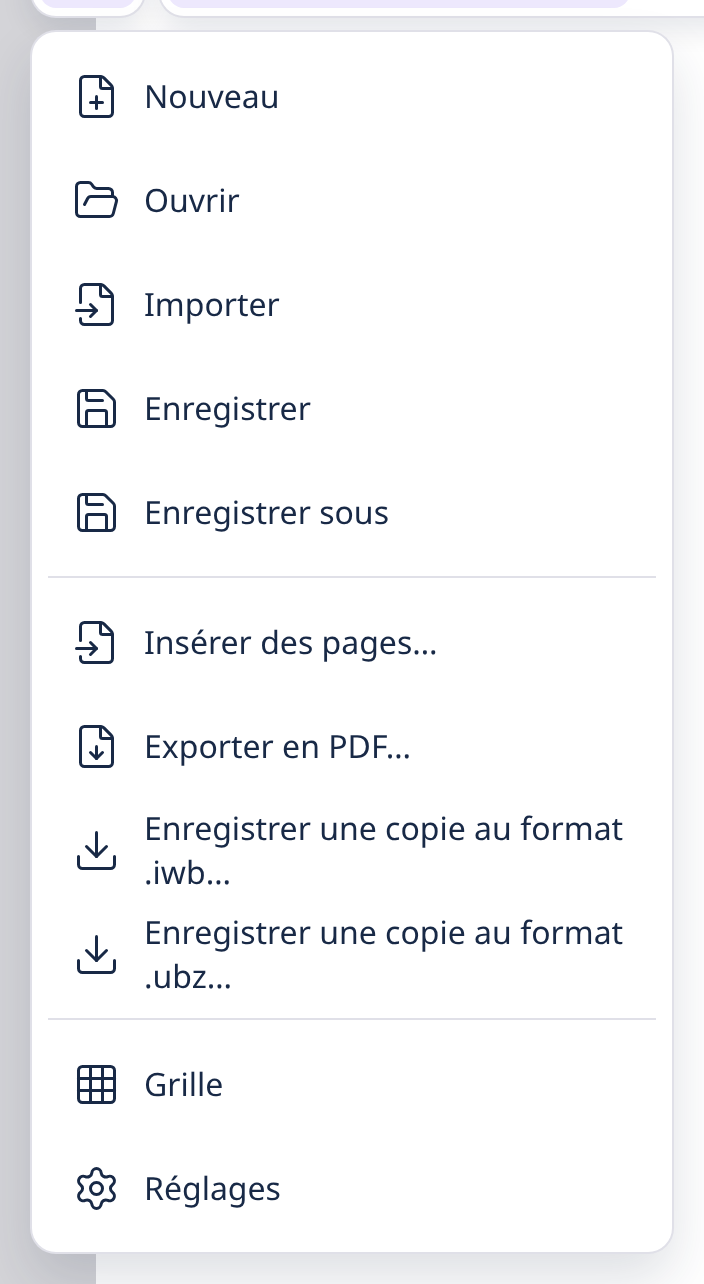
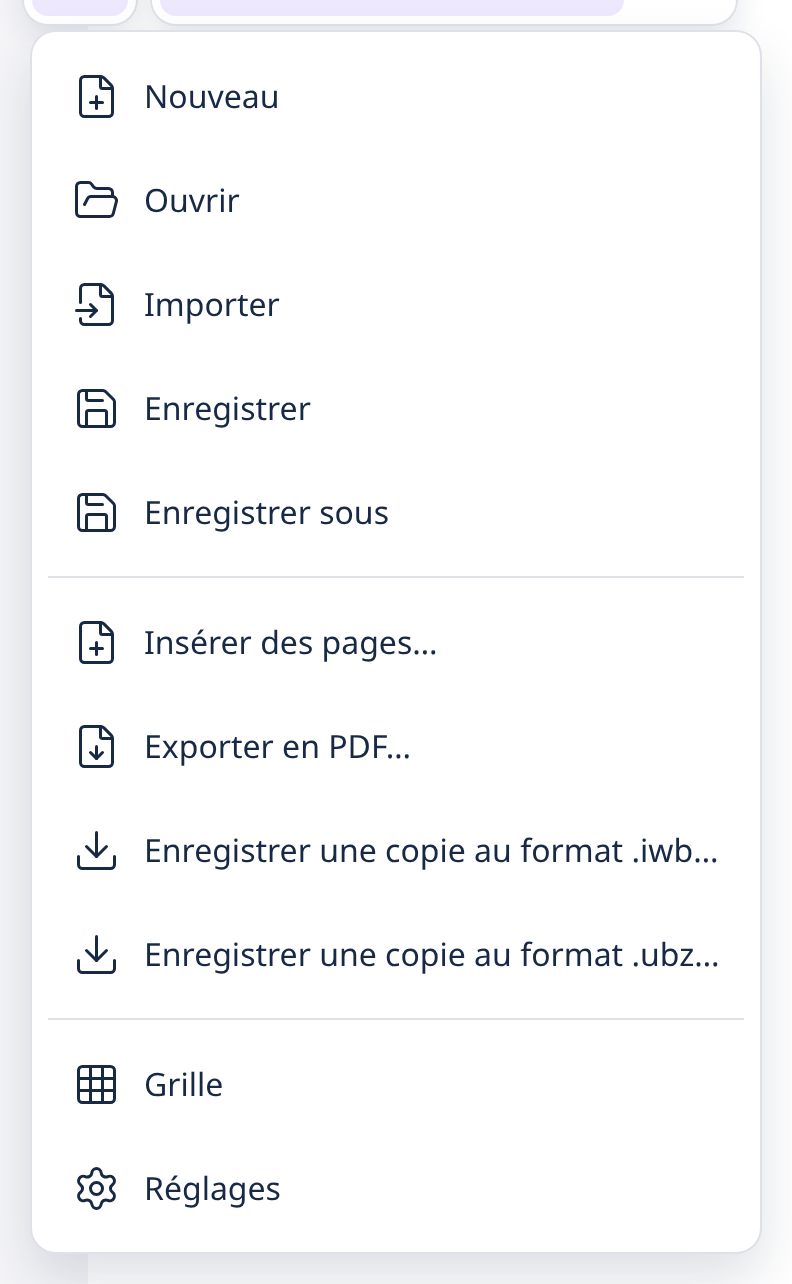
docs(design-l2): final captures, comparison and state

diff --git a/docs/sessions/design-l2-etat.md b/docs/sessions/design-l2-etat.md
@@ -1,10 +1,10 @@
 # État — design-l2
 
 Statut : en cours
-Gabarit : chantier (provisoire)
+Gabarit : chantier (8 tâches)
 Objectif : Remplacer la grille à bandes de RoomBoard par des îlots blancs flottants au-dessus de la scène (barre d'outils au centre, déplaçable et repliable ; onglets, menu, pages, annuler et zoom, bibliothèque et profil), pour que la scène occupe toute la hauteur de la fenêtre, comme la maquette 01.
-Avancement : —
-Étage : 1 — depuis 2026-11-25 18:05
+Avancement : 14/14 tâches terminées (8 du plan, 2 correctifs d'essais, 4 correctifs de fin)
+Étage : 4 — depuis 2026-11-25 20:00
 Lot : —
 Tâche : —
 Questions à Jérôme : —
@@ -24,16 +24,34 @@ Référence L3 sur 8113f4c (même arbre fusionné) : cargo 1356 (8 ignorés) · 
 Wasm avant : principal 1 375 581 o (plafond 1 572 864) · formats 2 794 511 o (plafond 3 145 728)
 
 ## Compteurs
-contre-relecture cadrage 1/2 (1 bloquant petits écrans, 5 majeurs : renvoyés au cadreur) · relecture plan 0/3 · vagues sans progrès 0/2 · correctifs de fin 0/2
+contre-relecture cadrage 1/2 (1 bloquant petits écrans, 5 majeurs : renvoyés au cadreur) · relecture plan 0/3 (sautée pour le temps : le planificateur a pris 43 min ; la double relecture de fin couvre) · vagues sans progrès 0/2 · correctifs de fin 2/2 (+ une retouche d'une ligne de l'orchestrateur : place de trois numéros, CL5b-8)
 
 ## Tâches
-(étage 2)
+| id | dépend | fichiers (abrégés) | état | commit vert | preuve rejouée |
+|----|--------|--------------------|------|-------------|----------------|
+| T1 | — | toolbar, toolbar-profiles, ProfileEditor + tests | terminée | 51b1029 | V1 : tsc 0, suite web 3529 |
+| T2 | — | island-place (neuf), device-settings | terminée | 477ae06 | idem |
+| T3 | — | icons, MenuBar (neuf), notices | terminée | 4f4af13 | idem ; controle-icones 9 cas |
+| T4 | T1 | TabsBar, PagesBar, App.test | terminée | d6d4f12 | V2 : tsc 0, suite web 3558 |
+| T5 | T2,T3 | Island (neuf) — concepteur-critique | terminée | e78ebe1 | idem ; revue immédiate reportée à la double relecture (temps) |
+| T6 | T1-T5 | App, layout, Toolbar, rb.css — concepteur-critique | terminée | a866978 | V3 : tsc 0, suite web 3583 |
+| T7 | T6 | essais existants, clickItem, s5b | terminée | f6bb825 | S5b : OK ; 8 essais rouges renvoyés en T9/T10 |
+| T8 | T6 | essai design-l2, verifier.sh, captures, comparaison | terminée | 961f4a5 | design L2 : ÉCHEC sur bbbc597, OK sur L2 |
+| T9 | T8 | icônes au pixel entier (padToPixel), c1 | terminée | 266414a | design L1, C1, design L2 OK ; suite 3589 |
+| T10 | T8 | gestes des essais c2, c8, c10b, c13, c15, design-l4 | terminée | d37cc47 | 7 essais OK |
+| T11 | relectures | #etat recouvert, Show keyed, clés d'appareil | terminée | c8c061b | suite 3597, design L2, S5b OK |
+| T12 | relectures + impeccable | menu fixed, clavier, pages, eraser-part | terminée | 0151d82 | suite 3594, design L1/L2 OK |
+| T13 | verifier | Ctrl+O (non reproductible), fond #F5F5F8 | terminée | 167e4b4 | c3 OK 5/5 ; suite 3589 |
+| T14 | relecture du correctif 1 | mémo d'id, infobulle Menu, resize, %2E | terminée | 7b42738 | suite 3606 ; design L2, L3, C1 OK |
+| — | verifier | place de trois numéros (CL5b-8) | terminée | 05677d4 | C13 OK, design L2 OK |
 
 ## Terminé quand
 toutes les tâches terminées · double relecture sans bloquant · verifier.sh --e2e OK sans régression · #stage = hauteur de la fenêtre (mesuré) · s5b joué · netteté § 10 · recadrages comparés à la maquette 01 · PR fusionnée dans main
 
 ## Hypothèses à revoir
-—
+Voir le cadrage (H1 à H14, H10 au niveau 1 : position de l'îlot sur l'appareil, contre U12). Choix de l'orchestrateur :
+- RESERVED_BAR_IDS garde `tabs` (validation des profils inchangée) ; le test toolbar.test.ts:124 passe en inclusion.
+- Ordre DOM des barres du tableau suit les coins du calque (App.test.tsx:637,641).
 
 ## Hors périmètre
 - Icône de l'app (L5), thème sombre (Q7), police Inter (Q6).
@@ -42,4 +60,12 @@ toutes les tâches terminées · double relecture sans bloquant · verifier.sh -
 ouvertes : — · passées : —
 
 ## Pièges trouvés
-—
+- Une scène pleine fenêtre met sous les îlots les gestes des essais écrits en px de scène (coin haut-gauche jusqu'à y 72) : choisir des points hors de `islandBoxes`.
+- Icônes après un texte de largeur fractionnaire : x fractionnaire, donc flou ; `padToPixel` arrondit la boîte du texte vers le haut.
+- Un `createMemo` qui rend un tableau neuf relance `Show keyed` à chaque lecture : mémoriser la chaîne d'abord.
+
+## Restes
+- moyen : la page commence à 16 px du haut, sous les îlots du haut (`fitPage`, `engine/camera.ts`) ; la maquette la pose vers y 152.
+- faible : Ctrl+O sous charge après Ctrl+S (C3 rouge une fois, non reproduit 5/5 ; course `busy` supposée, déjà présente avant L2).
+- faible : restes d'OF61 non pris (focus après « Revenir à l'origine », poignée de tri 44 px) : hors du chemin de L2.
+- faible : revue immédiate de T5 (concepteur-critique) remplacée par la double relecture de fin ; relecture du plan sautée pour le temps.

diff --git a/docs/essais/design-l2-comparaison.md b/docs/essais/design-l2-comparaison.md
@@ -10,7 +10,7 @@ maquette : `design-l2-maquette-*.png` (recadrages de `docs/design/maquettes/01-t
 ## Mesures
 
 - `#stage` : S1 1280 × 900 : #stage mesure la fenêtre (x 0, y 0, 1280 × 900) ; S1 1920 × 1080 : #stage mesure la fenêtre (x 0, y 0, 1920 × 1080).
-- Îlots (S1) : `îlots 1920 × 1080 : menu 16,16 56×56 ; onglets 80,16 291.4375×56 ; outils 593,16 734×56 ; panneaux 1796,16 108×56 ; historique 16,1008 160×56 ; pages 735,1008 450.546875×56 ; prereglages 880,80 160×56`, positions entières, aucun chevauchement. Largeurs fractionnaires admises (pages : 450,546875 px) : seules les positions sont au pixel entier.
+- Îlots (S1, première passe, avant le calage des icônes de T9) : `îlots 1920 × 1080 : menu 16,16 56×56 ; onglets 80,16 291.4375×56 ; outils 593,16 734×56 ; panneaux 1796,16 108×56 ; historique 16,1008 160×56 ; pages 735,1008 450.546875×56 ; prereglages 880,80 160×56`, positions entières, aucun chevauchement. Largeurs fractionnaires admises (pages : 450,546875 px) : seules les positions sont au pixel entier.
 
 ## Netteté § 10
 
@@ -23,14 +23,17 @@ maquette : `design-l2-maquette-*.png` (recadrages de `docs/design/maquettes/01-t
 | zone | écart | raison |
 |---|---|---|
 | toutes | Police du système au lieu d'Inter | Q6, hors périmètre (cadrage § 7) |
-| toutes | Fond de scène gris plus foncé que le fond clair de la maquette ; ombres des îlots plus discrètes | thème de l'application gardé, hors lot (L2 ne retouche pas la couleur de la scène) |
+| toutes | Ombres des îlots un peu plus discrètes que la maquette | fond de scène passé à `#F5F5F8` (charte, correctif de fin 1) ; ombre `--rf-shadow-hover` du jeton, inchangée |
+| toutes | La page commence à 16 px du haut, sous les îlots du haut ; la maquette la pose en carte vers y 152 | cadrage de la page par le moteur (`fitPage`, `engine/camera.ts`) gardé : le changer déplace tous les gestes des essais ; reste noté pour un lot suivant |
 | historique | Pas d'îlot du zoom (−, 100 %, +) ; « Ajuster la page » rejoint Annuler et Rétablir ; Annuler grisé (historique vide) | L2-23, H3 : zoom = comportement nouveau |
 | pages | Pas de « Toutes les pages » ; liste des numéros gardée ; corbeille « Retirer la page » en plus ; pas de séparateur | L2-23, H3 ; L2-18 (comportement gardé) |
+| pages | Place de trois numéros gardée à droite même avec une page (vide visible) ; compteur en bleu nuit | CL5b-8 (essai c13 S4 : liste d'au moins trois boutons) ; compteur `--rf-navy-500` (charte) |
 | pages | Compteur « 1 / 1 » et page 1 au lieu de « 2 / 5 » | contenu de l'essai (une page), pas de la maquette |
 | outils | « Gomme : partielle » reste un bouton de l'îlot ; deux gommes visibles ; pas de séparateur avant la Gomme | L2-23, H3 (comportement gardé) |
+| outils | Base de la gomme partielle en trait plein au lieu des pointillés | netteté § 10 : les pointillés se réduisaient à deux points flous à 100 % (correctif de fin 1) |
 | outils | « Annotation du bureau » absente au navigateur | capacité `desktopAnnotation` fausse sur le web (C11a P6) ; présente dans la coque |
-| menu-ouvert | Pas de raccourcis affichés, pas de sous-menu « Enregistrer une copie » (deux lignes .iwb et .ubz, libellés longs sur deux lignes), « Insérer des pages… » ajouté, pas de marque au pied, pas de points de suspension sur Ouvrir, Importer, Enregistrer sous | L2-4 (contenu du menu), L2-6 (lignes icône + libellé) |
+| menu-ouvert | Pas de raccourcis affichés, pas de sous-menu « Enregistrer une copie » (deux lignes .iwb et .ubz, libellés sur une ligne (largeur au contenu, correctif de fin 1)), « Insérer des pages… » ajouté, pas de marque au pied, pas de points de suspension sur Ouvrir, Importer, Enregistrer sous | L2-4 (contenu du menu), L2-6 (lignes icône + libellé) |
 | menu | Bouton Menu fermé : fond blanc ; la maquette le montre en violet (état ouvert) | maquette prise menu ouvert ; l'application garde le fond blanc fermé, violet non demandé par L2 |
 | prereglages | Trois couleurs du profil, sans épaisseurs, sans pastille cerclée ni séparateur, couleurs au contour fin | préréglages du profil sans état (C1 P18) ; épaisseurs hors L2 |
-| onglets | Un seul onglet « Sans titre.roomboard », sans pastille violette ; la maquette en montre deux (« Les fractions », « Sans titre ») | contenu de l'essai ; pastille de modification hors lot |
+| onglets | Un seul onglet « Sans titre.roomboard », sans pastille violette ; la maquette en montre deux (« Les fractions », « Sans titre ») | contenu de l'essai ; nom affiché avec son extension comme avant L2 (comportement gardé) ; pastille `.rb-tab-dirty` présente quand l'onglet est modifié |
 | panneaux | Aucun écart de forme relevé (bibliothèque, profils) | — |
